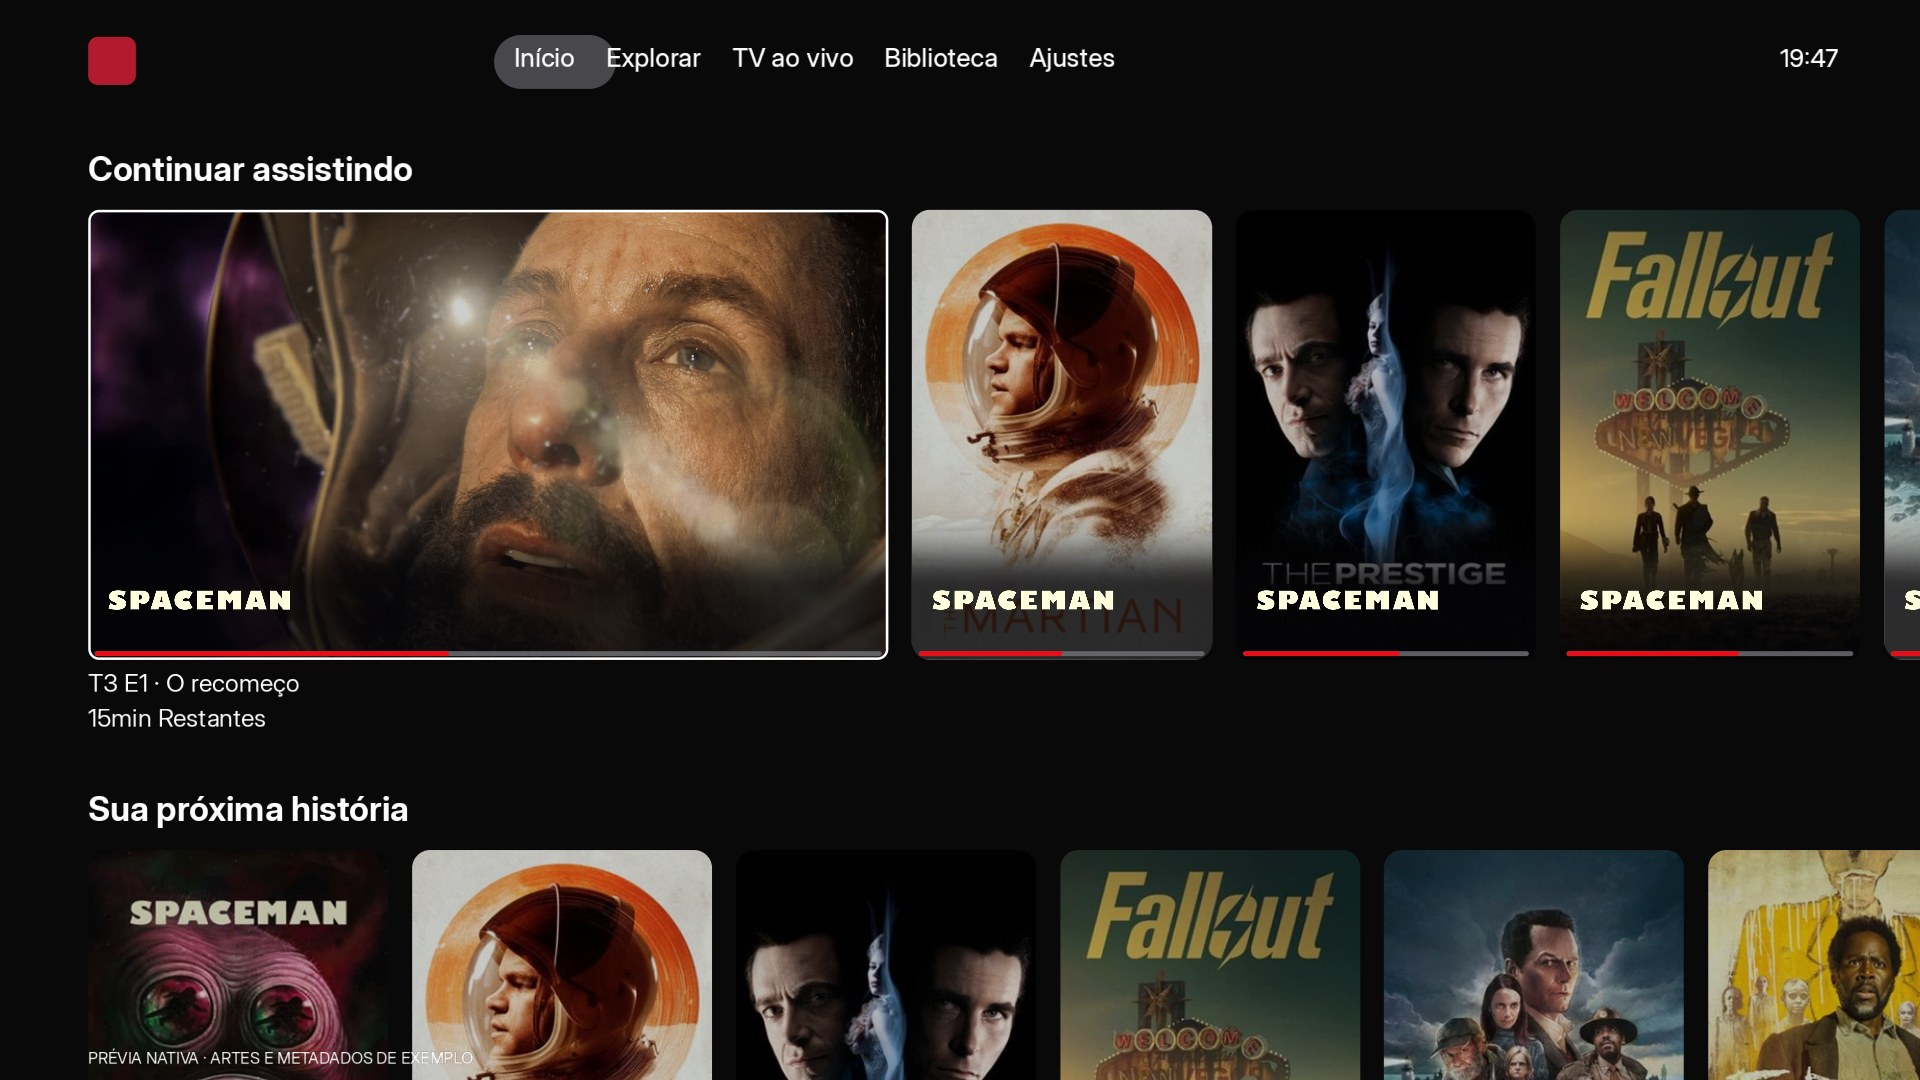
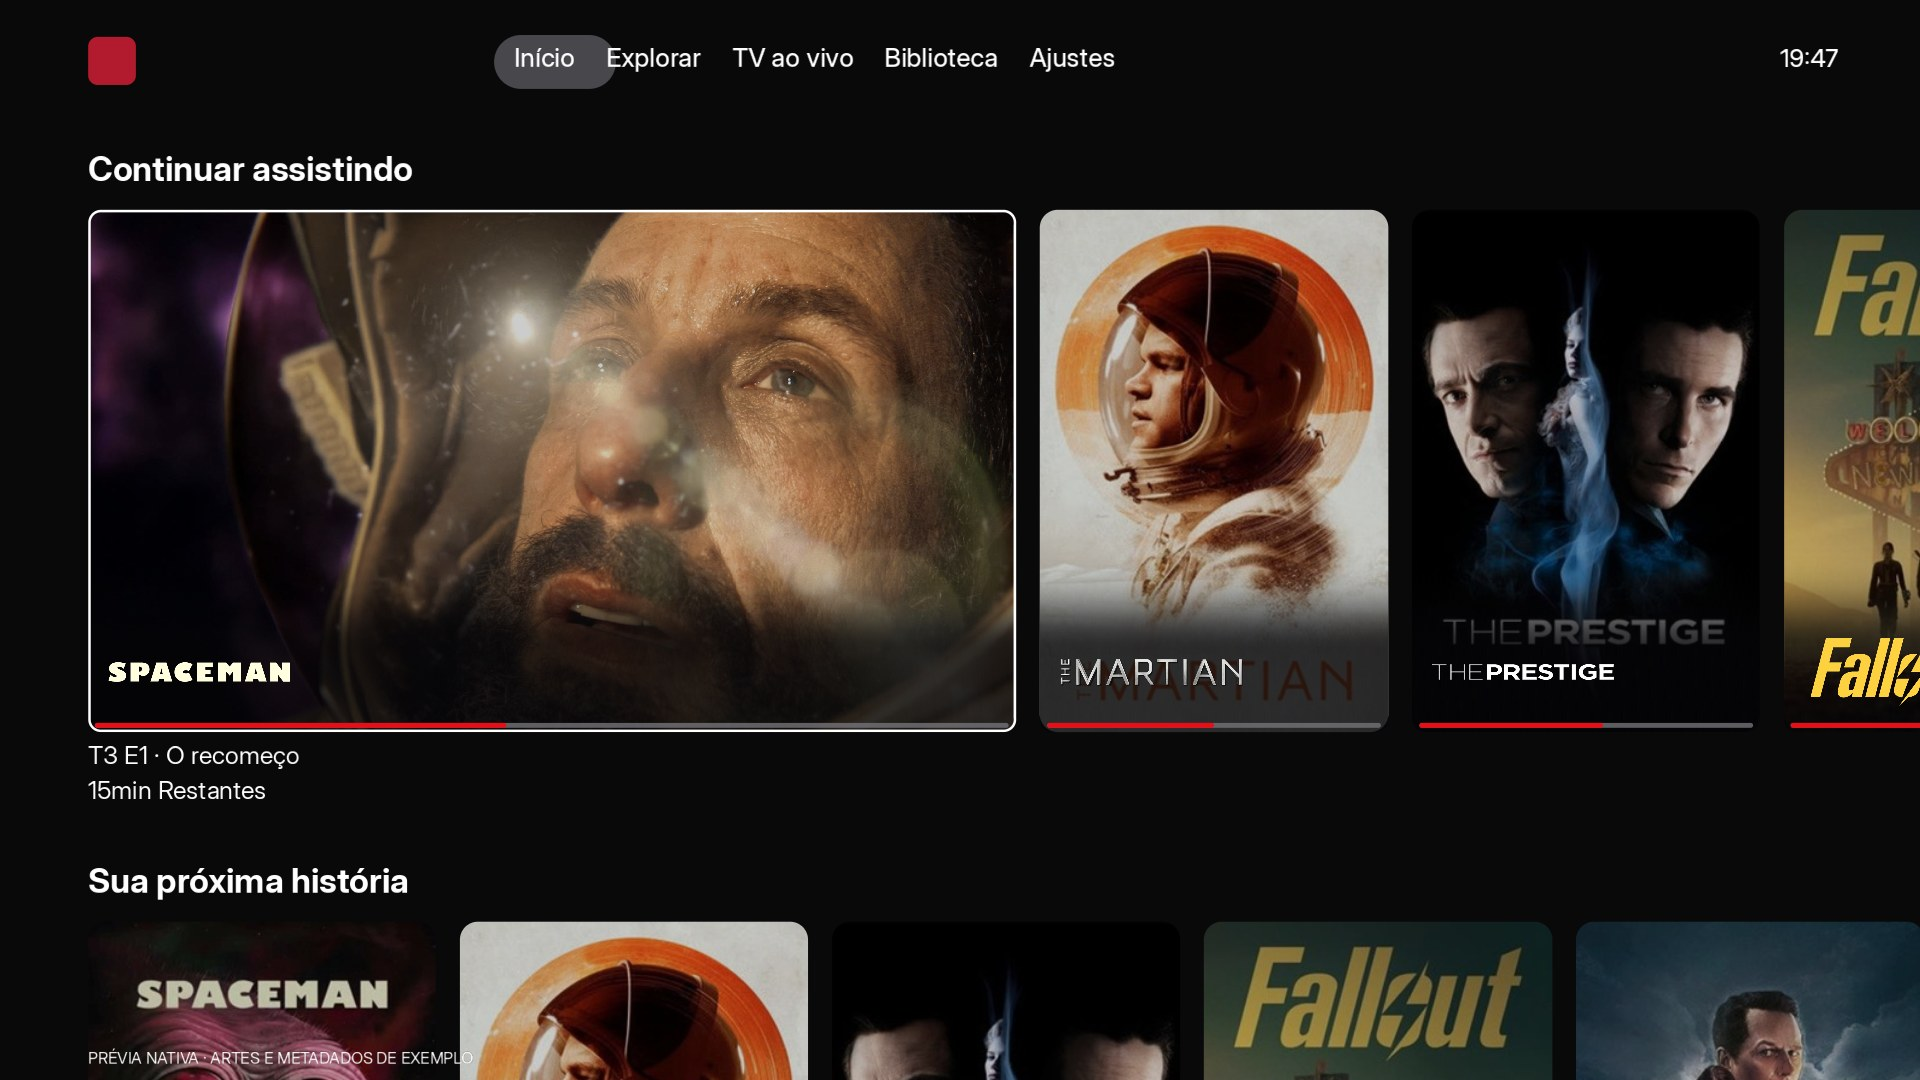
feat(home): enlarge Netflix posters by 16 percent and keep focus in view

diff --git a/legacy-source/src/home.c b/legacy-source/src/home.c
@@ -1936,6 +1936,9 @@ static float alvoScrollFil(int r, int col, float atual, float abre) {
   float dir   = esq + larguraFil(r) + xOffTipo(fileiras[r].tipo);
   float util  = homeLarguraUtil();
   float folga = sobraDireitaFoco(r, abre);
+  /* Netflix grows to the right: don't reserve the whole expansion on both
+   * sides and let the left clamp override the right edge with large cards. */
+  float folgaEsq = netflixPoster(fileiras[r].tipo) ? 4.0f + larguraFil(r)*.004f : folga;
   float alvo  = atual;
   // HERÓI DIVIDIDO: o card em foco É o painel; a fila ao lado dele começa no
   // PRÓXIMO título (o do foco sai dela, atrás do painel).
@@ -1945,7 +1948,7 @@ static float alvoScrollFil(int r, int col, float atual, float abre) {
   // visivel apoia a caixa em repouso na margem e o que cresce (ou o anel) fica
   // por baixo da barra lateral. Na coluna 0 o alvo fica negativo e o corte
   // abaixo o devolve a zero, que e o inicio da fileira de sempre.
-  if (esq - folga - alvo < 0.0f) alvo = esq - folga;
+  if (esq - folgaEsq - alvo < 0.0f) alvo = esq - folgaEsq;
   if (alvo < 0) alvo = 0;
   return alvo;
 }

diff --git a/legacy-source/tests/streammax-netflix-home.py b/legacy-source/tests/streammax-netflix-home.py
@@ -13,7 +13,7 @@ common=['-std=gnu11','-O1','-g','-ffunction-sections','-fdata-sections','-I',str
 with tempfile.TemporaryDirectory(prefix='sm-netflix-test-') as name:
  d=Path(name);h.fixtures(d)
  play=Image.new("RGBA",(32,32));ImageDraw.Draw(play).polygon([(8,4),(27,16),(8,28)],fill="white");h.raw(d/"play-icon.rgba",play)
- for n in ['02','12']:
+ for n in ['00','01','02','04','12']:
   h.raw(d/f'frame-{n}.rgba',Image.open(ROOT/f'deploy/app/art/{n}.jpg'));h.raw(d/f'logo-{n}.rgba',Image.open(ROOT/f'deploy/app/art/logo/{n}.png'))
  im=Image.open(ROOT/'deploy/app/art/marcas/streammax_wordmark.png') if (ROOT/'deploy/app/art/marcas/streammax_wordmark.png').exists() else None
  if im:h.raw(d/'brand.rgba',im)

diff --git a/legacy-source/tests/test_globoplay_settings.c b/legacy-source/tests/test_globoplay_settings.c
@@ -1,5 +1,7 @@
 #include "../src/ajustes.c"
 #include <assert.h>
+static int mobileFixture;
+int layout_modo_mobile(void){return mobileFixture;}
 int selospacote_n(void){return 0;}
 void ling_conta_legenda(const char *v){(void)v;}
 void ling_conta_legenda2(const char *v){(void)v;}
@@ -22,6 +24,8 @@ int main(void){
       assert(ajustes_menu_topo()==(i==3||i==4||i==5||(t==1&&i!=2)));
     }
   }
+  mobileFixture=1;valor[AJ_HOME_LAYOUT]=HOME_LAYOUT_NETFLIX;valor[AJ_MENU_TOPO]=0;
+  assert(!ajustes_menu_topo());mobileFixture=0;
   valor[AJ_MENU_TOPO]=topoSalvo;
   valor[AJ_HOME_LAYOUT]=HOME_LAYOUT_GLOBOPLAY;
   assert(ajustes_menu_topo());

diff --git a/legacy-source/src/continuar.c b/legacy-source/src/continuar.c
@@ -58,7 +58,7 @@ static void continuarNetflix(const CatItem *ci,GfxRect r,float raio){
  float aspect=url?tex_aspecto(url):0;
  if(logo&&aspect>0){
   float w=fminf(r.w*.72f,aspect*72),h=w/aspect;
-  gfx_rect((GfxRect){r.x+pad,r.y+r.h-h-24,w,h},logo,GFX_TEXTO,0,0,0,0,1,1,1,1);
+  gfx_rect((GfxRect){r.x+pad,r.y+r.h-h-24,w,h},logo,tex_marca_escura(url)?GFX_MARCA:GFX_TEXTO,0,0,0,0,1,1,1,1);
  }else{
   TxtLinha name=txt_linha_corta(TXT_CW_TITULO,ci->titulo,248,248,248,255,r.w-pad*2);
   txt_desenhar_alpha(name,r.x+pad,r.y+r.h-name.h-24,1);

diff --git a/legacy-source/src/netflixhome.h b/legacy-source/src/netflixhome.h
@@ -9,7 +9,7 @@ static inline SmNetflixHome sm_netflix_home(float w,float h){
  n.w=fmaxf(1,w-2*n.margin);n.h=fminf(h*.70f,n.w/2.20f);
  n.shelf=n.y+n.h+32;n.push=fmaxf(0,n.shelf-156);n.copyW=fminf(660,n.w*.39f);return n;
 }
-#define SM_NETFLIX_POSTER_W 300.0f
-#define SM_NETFLIX_POSTER_H 450.0f
+#define SM_NETFLIX_POSTER_W 348.0f
+#define SM_NETFLIX_POSTER_H 522.0f
 #define SM_NETFLIX_CW_CAPTION 90.0f
 #endif

diff --git a/docs/netflix-home/README.md b/docs/netflix-home/README.md
@@ -12,10 +12,10 @@ necessário recadastrar conta, perfis, fontes ou biblioteca.
 
 - Navegação horizontal no topo, utilizando os destinos reais já existentes.
 - Destaque amplo emoldurado, sinopse e ações **Assistir/Retomar** e **Mais informações**.
-- Cartazes verticais grandes: base de 300 × 450 em uma interface de 1920 × 1080.
+- Cartazes verticais grandes: base de 348 × 522 em uma interface de 1920 × 1080.
   A escala da interface preserva o tamanho físico aproximado dos cartazes.
 - O cartão focado em Continuar assistindo se expande para aproximadamente
-  800 × 450, com progresso vermelho, episódio e minutos restantes quando
+  928 × 522, com progresso vermelho, episódio e minutos restantes quando
   esses dados existem. Os vizinhos continuam verticais.
 - Foco branco, animação compartilhada das fileiras e memória de coluna.
 - Esquerda/direita alternam as duas ações do destaque; direita após Mais

diff --git a/STREAMMAX_PROJECT.md b/STREAMMAX_PROJECT.md
@@ -6,7 +6,7 @@
 - Base publicada 1.0.30: `eb9f182b9875cf21cf6ead301066f40294475b70`.
 - Branch `feat/streammax-netflix-home`; candidata 1.0.31 / 20038 / 2.0.38.
 - Layout opcional append-only Netflix=5; mantém modos, contas/fontes e sync.
-- Cartazes 300×450, Continuar assistindo expansível, destaque e duas ações.
+- Cartazes 348×522, Continuar assistindo expansível, destaque e duas ações.
 - Componentes GLES de produção, foco/scroll/settings e regressões locais;
   execução real na TCL e métricas físicas ainda pendentes.
 - [Funcionamento, validação e limites](./docs/netflix-home/README.md).

diff --git a/docs/netflix-home/CHANGELOG.md b/docs/netflix-home/CHANGELOG.md
@@ -2,6 +2,6 @@
 
 - Adiciona modo opcional Netflix na Home, mantendo os cinco layouts anteriores.
 - Destaque emoldurado com ações de reprodução e informações.
-- Cartazes grandes, expansão de Continuar assistindo e progresso vermelho.
+- Cartazes ampliados em mais 16% a pedido do usuário (348×522 na base Full HD), expansão de Continuar assistindo e progresso vermelho.
 - Prévia da opção em Ajustes e acabamento escuro do menu superior.
 - Preserva sincronização de preferências da 1.0.30 e os fluxos de conteúdo.
